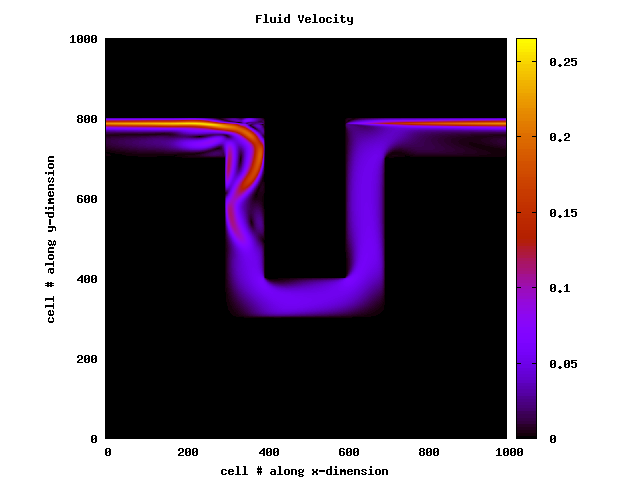
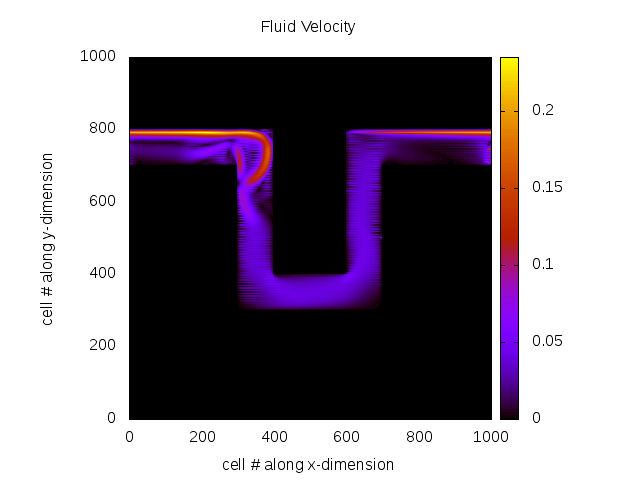
WORKS THIS TIME HONEST

Changed region(s): [[0.0938, 0.0312, 0.9062, 1.0], [0.0625, 0.3125, 0.0938, 0.6875], [0.875, 0.125, 0.9062, 0.1562]]

diff --git a/lbm.c b/lbm.c
@@ -173,9 +173,6 @@ int main(int argc, char* argv[])
     const int expected_cells = (rank == size-1) ? (params.ny%size) * params.nx + group_size : group_size;
     const int padding = 2 * params.nx;
 
-    // allocate and initialise cells memory, with two rows padding
-    initialise_worker(params, &cells_even, &cells_odd, &obstacles, expected_cells);
-
     int group_sizes[size];
     int displacements[size];
     for (ii = 0; ii < size; ii++) {
@@ -184,11 +181,15 @@ int main(int argc, char* argv[])
     }
     group_sizes[size-1] += (params.ny%size)*params.nx; 
     //send obstacles
-    MPI_Scatterv(obstacles_whole, group_sizes, displacements, MPI_INT, obstacles, expected_cells, MPI_INT, 0, MPI_COMM_WORLD);
-    MPI_Barrier(MPI_COMM_WORLD);
+
     // save size of full grid before setting to cropped size
     int full_y = params.ny;
     params.ny = (rank == size-1) ? (params.ny%size) + (int) params.ny/size : (int) params.ny/size;
+    // allocate and initialise cells memory, with two rows padding
+    initialise_worker(params, &cells_even, &cells_odd, &obstacles, expected_cells);
+
+    MPI_Scatterv(obstacles_whole, group_sizes, displacements, MPI_INT, obstacles, expected_cells, MPI_INT, 0, MPI_COMM_WORLD);
+    MPI_Barrier(MPI_COMM_WORLD);
 
     //Calculate offsets
     int end = expected_cells - params.nx;
@@ -197,6 +198,8 @@ int main(int argc, char* argv[])
     //Calculate neighbour workers
     int down = (rank+1)%size;
     int up = (rank == 0) ? size-1 : rank-1; 
+
+    printf("Ready rank %d, out of %d\n", rank, size);
     //for(ii=0; ii< 5; ii++)
     for (ii = 0; ii < params.max_iters; ii++)
     {
@@ -255,11 +258,11 @@ int main(int argc, char* argv[])
 	  if(rank%2 == 0) {
 	    MPI_Send(&cells_odd[0], params.nx, MPI_SPEED_T, 
 		     up, 0, MPI_COMM_WORLD);
-	    MPI_Recv(&cells_odd[pad2-1], params.nx, MPI_SPEED_T, up, 0, 
+	    MPI_Recv(&cells_odd[pad2], params.nx, MPI_SPEED_T, up, 0, 
 		     MPI_COMM_WORLD, NULL);
-	    MPI_Send(&cells_odd[end-1], params.nx, MPI_SPEED_T, 
+	    MPI_Send(&cells_odd[end], params.nx, MPI_SPEED_T, 
 		     down, 0, MPI_COMM_WORLD);
-	    MPI_Recv(&cells_odd[pad1-1], params.nx, MPI_SPEED_T, down, 0, 
+	    MPI_Recv(&cells_odd[pad1], params.nx, MPI_SPEED_T, down, 0, 
 		     MPI_COMM_WORLD, NULL);
 	  }
 	  else {

diff --git a/simulation.c b/simulation.c
@@ -99,7 +99,7 @@ float simulation_steps(const param_t params, speed_t* cells, const speed_t* old_
             
 	    if (obstacles[ii*params.nx + jj])
 	      {
-		cells[ii*params.nx + jj].speeds[1] = tmp[3];
+		        cells[ii*params.nx + jj].speeds[1] = tmp[3];
                 cells[ii*params.nx + jj].speeds[2] = tmp[4];
                 cells[ii*params.nx + jj].speeds[3] = tmp[1];
                 cells[ii*params.nx + jj].speeds[4] = tmp[2];
